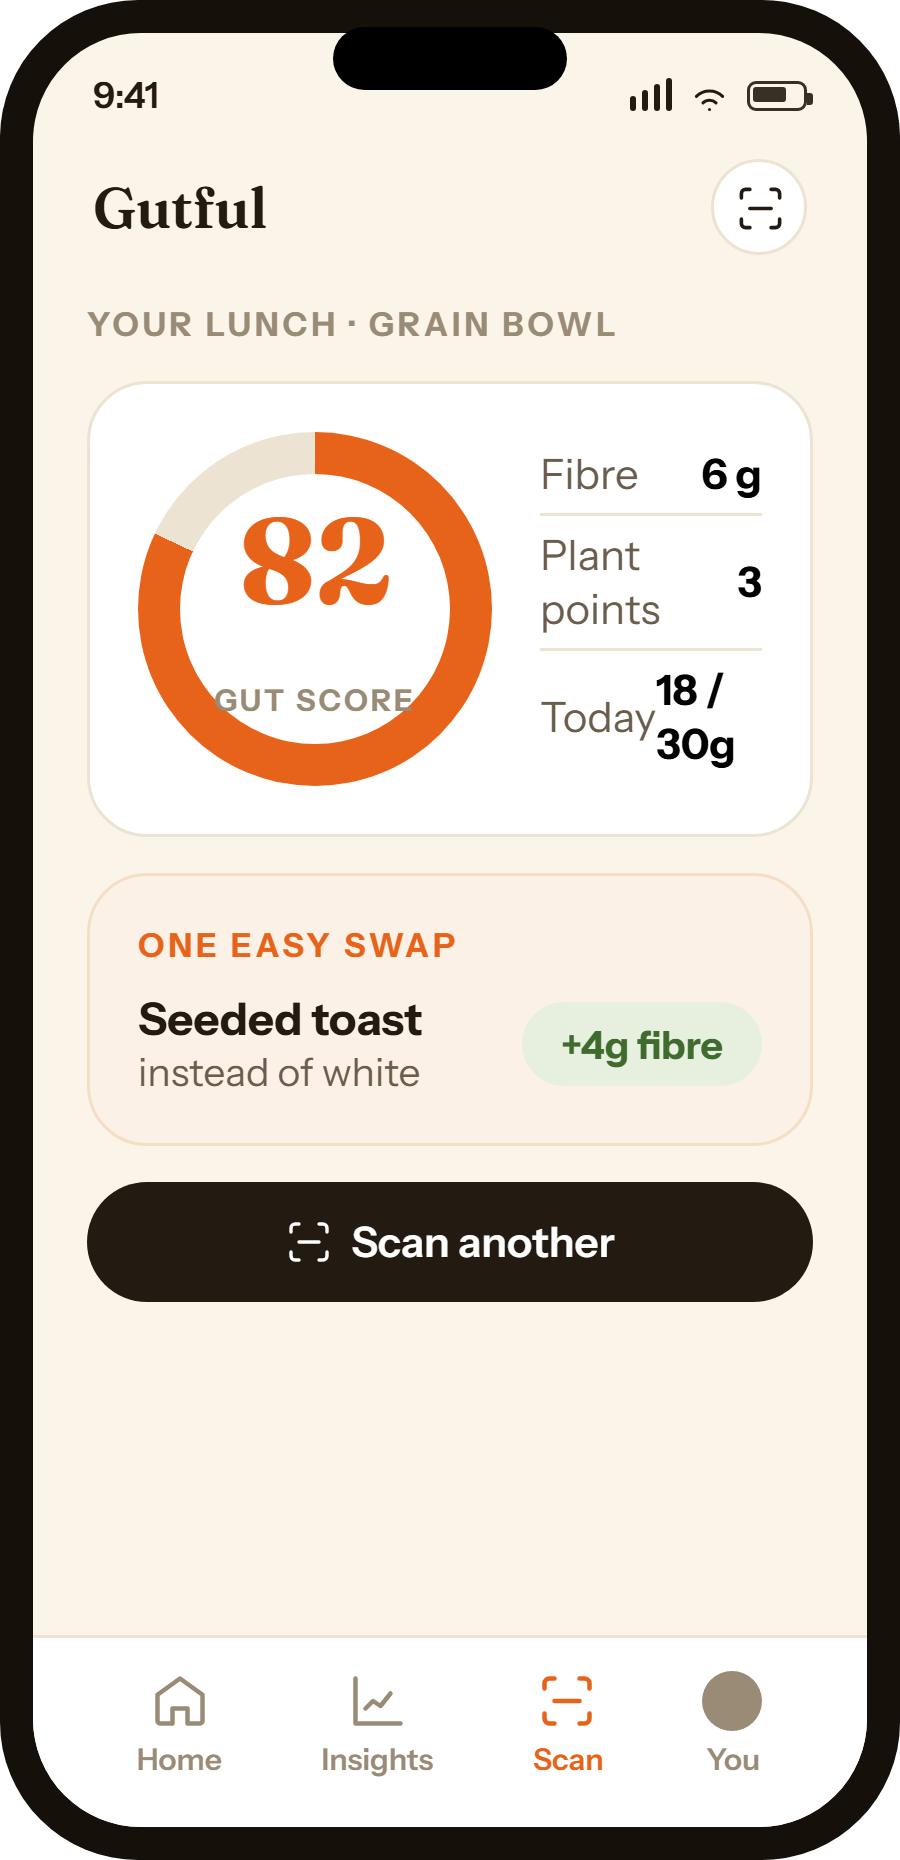
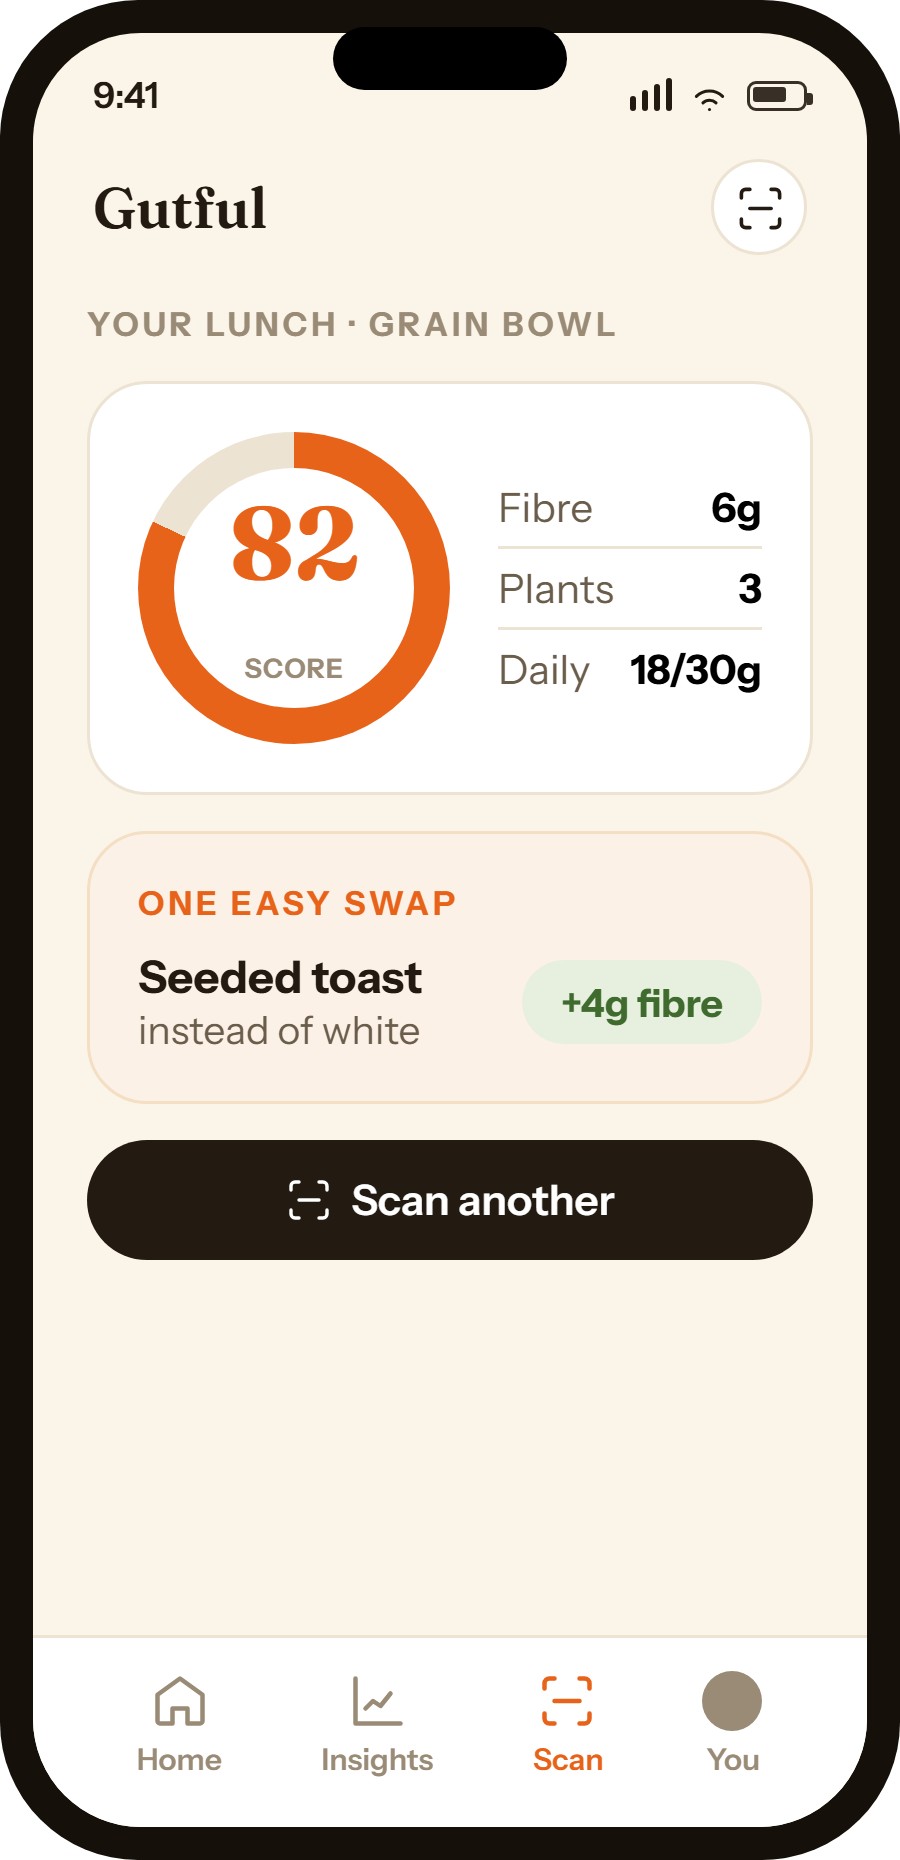
Add CAPI match signals (fbp/fbc) + dedup eventID on Lead

diff --git a/app.js b/app.js
@@ -6,8 +6,7 @@ function qp(k){return new URLSearchParams(location.search).get(k)||"";}
 var concept=document.body.getAttribute('data-concept');var done=false;var SB=window.SUPABASE_URL,KEY=window.SUPABASE_ANON_KEY;
 // --- analytics: GA4 event + auto concept/angle on every event. No-ops if no IDs set.
 function track(name,params){var base={concept:concept,angle:qp('utm_content')||''};if(params)for(var k in params)base[k]=params[k];try{if(typeof gtag==='function')gtag('event',name,base);}catch(e){}}
-function fbqt(name,params,id){try{if(typeof fbq==='function')fbq('track',name,params||{},id?{eventID:id}:undefined);}catch(e){}}
-function getCookie(n){var m=document.cookie.match('(?:^|; )'+n.replace(/([.$?*|{}()\[\]\\\/+^])/g,'\\$1')+'=([^;]*)');return m?decodeURIComponent(m[1]):'';}
+function fbqt(name,params){try{if(typeof fbq==='function')fbq('track',name,params||{});}catch(e){}}
 function initAnalytics(){
   track('view_content');fbqt('ViewContent',{content_name:concept,content_category:qp('utm_content')||'organic'});
   document.querySelectorAll('.pill,.ratebtn,.sticky a').forEach(function(el){el.addEventListener('click',function(){track('cta_click',{location:(el.className||'').split(' ')[0]||'cta'});});});
@@ -44,10 +43,10 @@ var box=form.closest('[data-form]')||form.parentNode;var errEl=box.querySelector
 var inp=form.querySelector('input[type=email]');var email=(inp.value||'').trim();
 if(!/^[^@\s]+@[^@\s]+\.[^@\s]+$/.test(email)){if(errEl){errEl.textContent="That doesn't look like an email. Mind checking it?";errEl.classList.add('show');}return;}
 var rid=uuidv4();
-var row={id:rid,email:email,concept:concept,angle:qp('utm_content'),utm_source:qp('utm_source'),utm_medium:qp('utm_medium'),utm_campaign:qp('utm_campaign'),utm_content:qp('utm_content'),utm_term:qp('utm_term'),fbp:getCookie('_fbp'),fbc:getCookie('_fbc'),referrer:document.referrer||'',page:location.pathname};
+var row={id:rid,email:email,concept:concept,angle:qp('utm_content'),utm_source:qp('utm_source'),utm_medium:qp('utm_medium'),utm_campaign:qp('utm_campaign'),utm_content:qp('utm_content'),utm_term:qp('utm_term'),referrer:document.referrer||'',page:location.pathname};
 var btn=form.querySelector('button');var t=btn.textContent;btn.disabled=true;btn.textContent='…';
 fetch(SB+'/rest/v1/signups',{method:'POST',headers:{'apikey':KEY,'Authorization':'Bearer '+KEY,'Content-Type':'application/json','Prefer':'return=minimal'},body:JSON.stringify(row)})
-.then(function(r){if(!r.ok)throw 0;document.querySelectorAll('.signup').forEach(function(f){f.style.display='none';});document.querySelectorAll('.micro').forEach(function(m){m.style.display='none';});document.querySelectorAll('.thanks').forEach(function(tk){tk.classList.add('show');});if(!done){track('signup_completed');fbqt('Lead',{content_name:concept,content_category:qp('utm_content')||'organic'},rid);done=true;}openSurvey(rid);})
+.then(function(r){if(!r.ok)throw 0;document.querySelectorAll('.signup').forEach(function(f){f.style.display='none';});document.querySelectorAll('.micro').forEach(function(m){m.style.display='none';});document.querySelectorAll('.thanks').forEach(function(tk){tk.classList.add('show');});if(!done){track('signup_completed');fbqt('Lead',{content_name:concept,content_category:qp('utm_content')||'organic'});done=true;}openSurvey(rid);})
 .catch(function(){btn.disabled=false;btn.textContent=t;if(errEl){errEl.textContent="Something went wrong. Try again in a moment.";errEl.classList.add('show');}});});});
 var nav=document.querySelector('.nav');var sticky=document.querySelector('.sticky');var hero=document.querySelector('.hero');
 function onScroll(){var y=window.scrollY||document.documentElement.scrollTop;if(nav)nav.classList.toggle('scrolled',y>40);